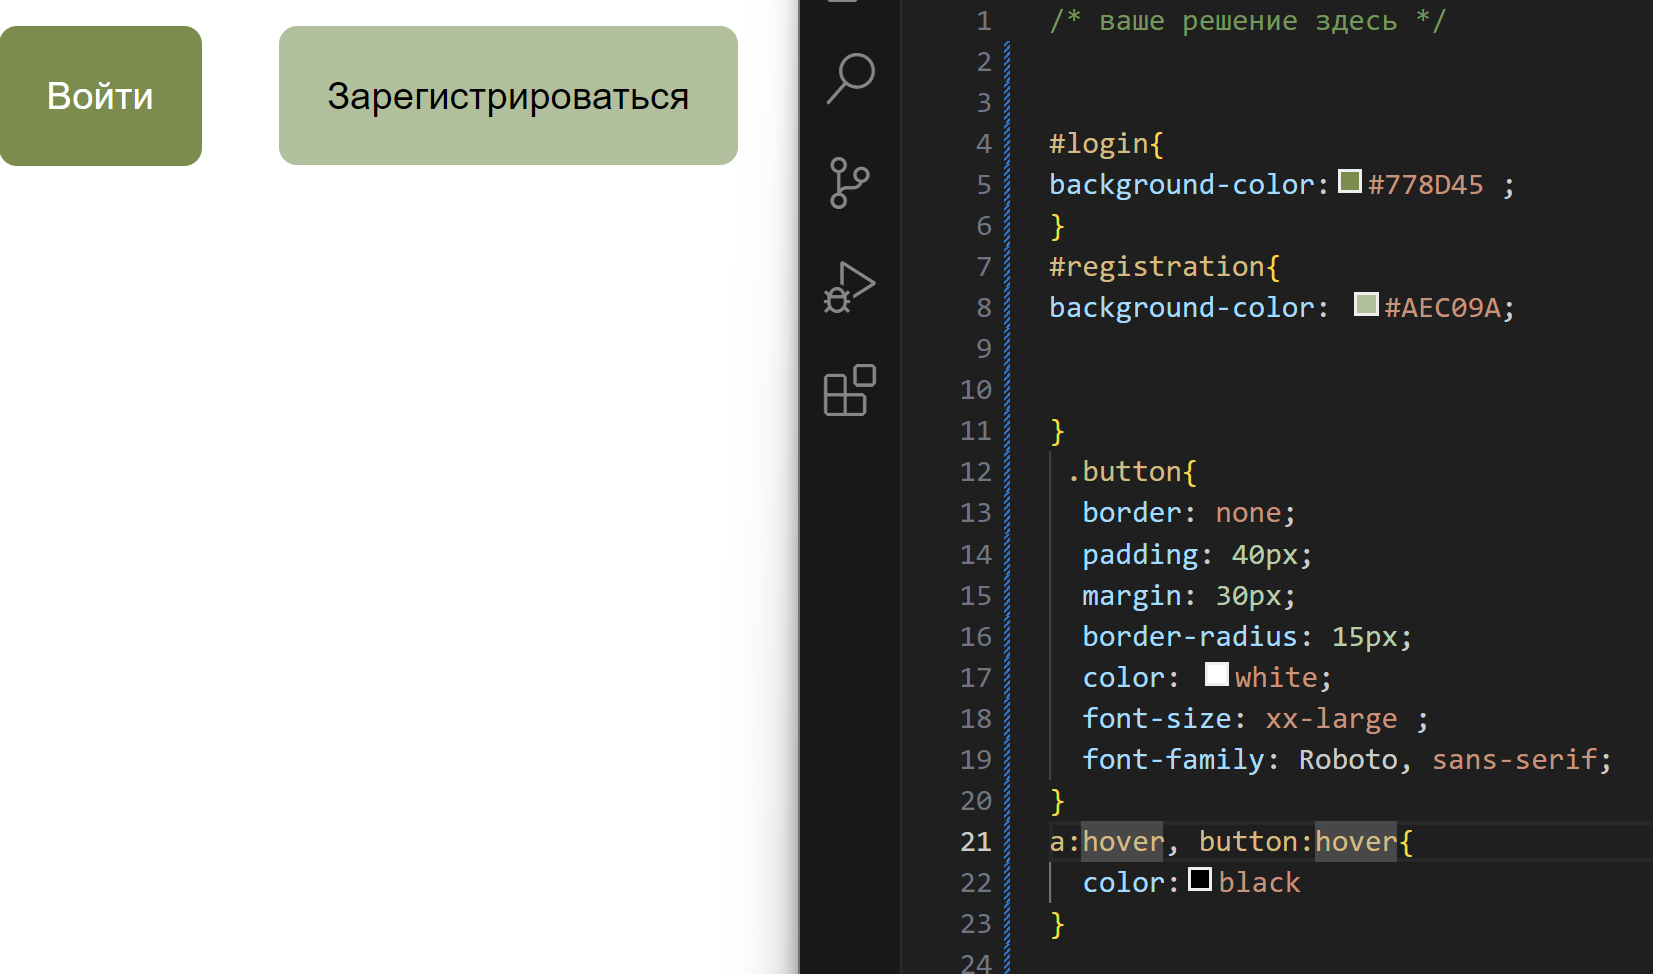
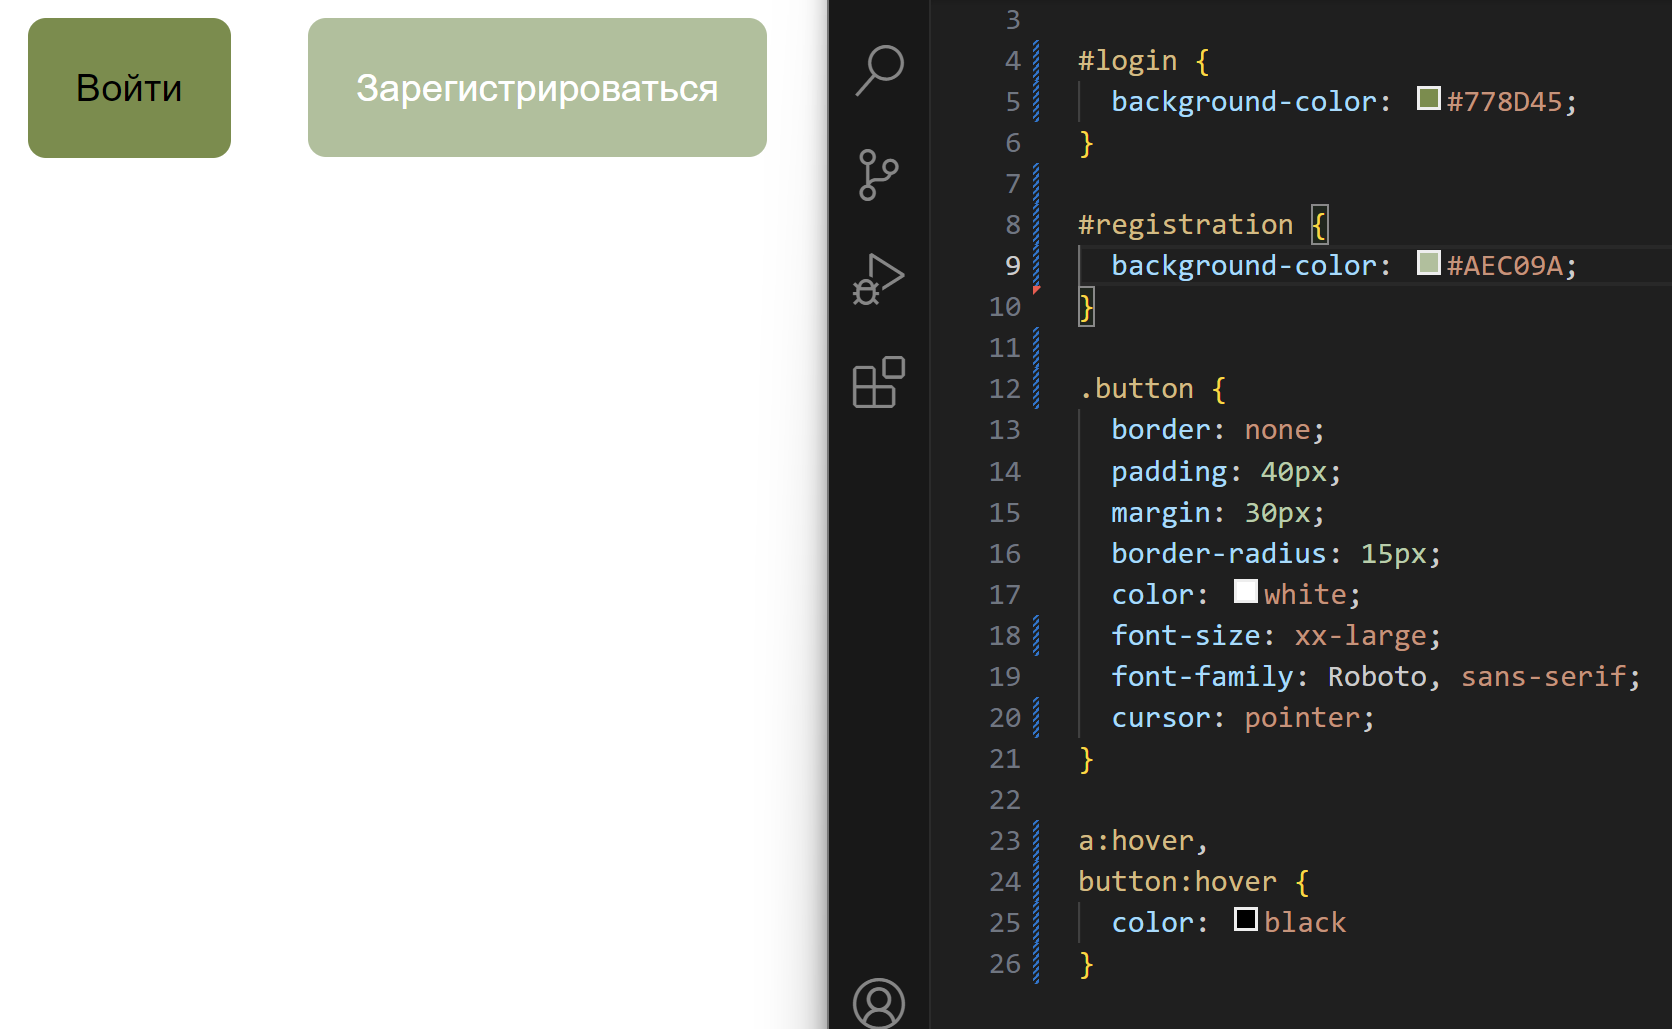
add task1/2

Changed region(s): [[0.5862, 0.0, 0.9873, 1.0], [0.0, 0.0, 0.5554, 1.0]]

diff --git a/style.css b/style.css
@@ -1,25 +1,26 @@
 /* ваше решение здесь */
 
 
-#login{
-background-color:#778D45 ;
+#login {
+  background-color: #778D45;
 }
-#registration{
-background-color: #AEC09A;
- 
 
+#registration {
+  background-color: #AEC09A;
 }
- .button{
+
+.button {
   border: none;
   padding: 40px;
   margin: 30px;
   border-radius: 15px;
   color: white;
-  font-size: xx-large ; 
+  font-size: xx-large;
   font-family: Roboto, sans-serif;
-}
-a:hover, button:hover{
-  color:black
+  cursor: pointer;
 }
 
-
+a:hover,
+button:hover {
+  color: black
+}
